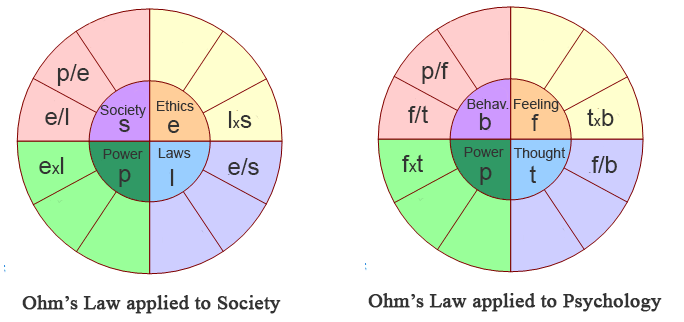
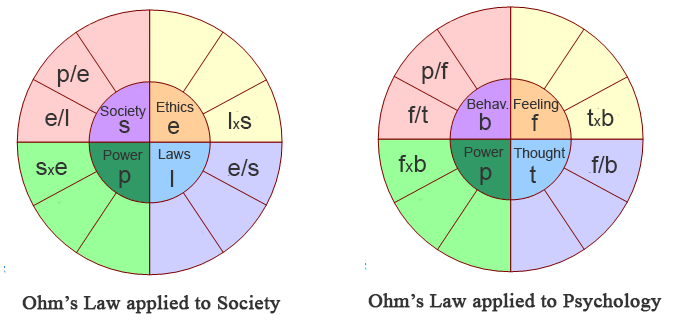
2.1.9 updated ohms laws in STRUCTURE

diff --git a/docs/_layouts/default.html b/docs/_layouts/default.html
@@ -36,7 +36,7 @@
           <li><a target="_blank" href="https://mega.nz/#F!NiBwjQiA!VYOo9TlGW9u060-V1LQ0_w">Download <strong>ePub</strong></a></li>
           <li><a target="_blank" href="https://mega.nz/#F!NiBwjQiA!VYOo9TlGW9u060-V1LQ0_w">Download <strong>HTML</strong></a></li>
         </ul>
-              current version: Mon 20 Jan 2020 04:05:22 PM -03 v.2.0.9
+              current version: Mon 24 Feb 2020 12:03:24 PM -03 v.2.1.9
 
 <!--
         ZIP and TAR downloads include 20+ megs of webpages, scripts, images and other material. 

diff --git a/Latest/THOLONIA_THE_BOOK.md b/Latest/THOLONIA_THE_BOOK.md
@@ -1875,6 +1875,10 @@ It is up to the reader to decide if *laws*, *society*, *ethics*, and  *power* ar
 
 This can apply to any properly defined trigram. Let&rsquo;s test it out on the cognitive behavioral trigram shown above. For example, if we claim that a *behavior* is a product of *thoughts* (one&rsquo;s own or those one is exposed to) and we also posit that *thoughts* are to be measured by *feelings*, we can say *behavior = thoughts / feelings* and likewise, *thoughts = behavior x feelings*. So, high *thought* with little *feeling* results in high *power* (whatever that is in this context.. intention? beliefs? desires? will?) and very low *behavior*, while low *thought* and high *feelings* results in equally high *power* and high *behavior*. I am not claiming that the values I have assigned for this example are accurate. I suspect it would take quite a bit of discussion and research to find the best values. The point of this is to suggest that with the correct values these equations would produce meaningful results. 
 
+This chart (below) is a speculative idea about how the naturally occurring relationships we see in nature, such as Ohm's Law, might also apply across other scopes.  The formula wheel on the right is to numerically show how the four tholonic concepts (limitation, instantiation, range, power) of any instance of *knowledge* relate to, and define, one another.  (In this chart the concept of *power* is left undefined for all but *electricity* and *relativity*, as  it is not clear how that would be described.)
+
+<img src="../Images/ohm-cats.png" style="width:100%" />
+
 In any case, the twelve formulas of Newton&rsquo;s 2<sup>nd</sup> show some very interesting relationships between ethics, laws, society, and &ldquo;power&rdquo;, and, in my humble opinion, a new perspective on the dynamics of culture and society that, if nothing else, raises some important questions. As it applies here, it shows how the tholon can describe everything from atoms to culture. Because the math involved in a tholon can be more than the reader might be interested in, some of this subject is covered more deeply in Appendix B.
 
 What is being said here is that from the 3+1 dimensions of reality, to the laws of electricity, to the way the psyche works, all of these are expressions of the same primary archetype, and its children. This means that *thoughts*, *ohms*, *laws*, and the *Z* axis  are the same primal energy or awareness expressed in very different contexts and scopes, just as are *feelings, ethics, volts, X axis*, or *society, behavior, current, Y axis*. This also suggests that *beliefs* (or intention, desire, will?), *time*, (social) *power*, and (electrical) *power* are also the same +1 &ldquo;white dot&rdquo; in different contexts and scopes.

diff --git a/README.md b/README.md
@@ -1,7 +1,7 @@
 
 see <https://tholonia.github.io/the-book/>
 
-Version {!Mon 20 Jan 2020 04:05:22 PM -03 v.2.0.9}
+Version {!Mon 24 Feb 2020 12:03:24 PM -03 v.2.1.9}
 
 Tholonia: The Existential Mechanics of Awareness
 Copyright © 2020 Duncan Stroud
